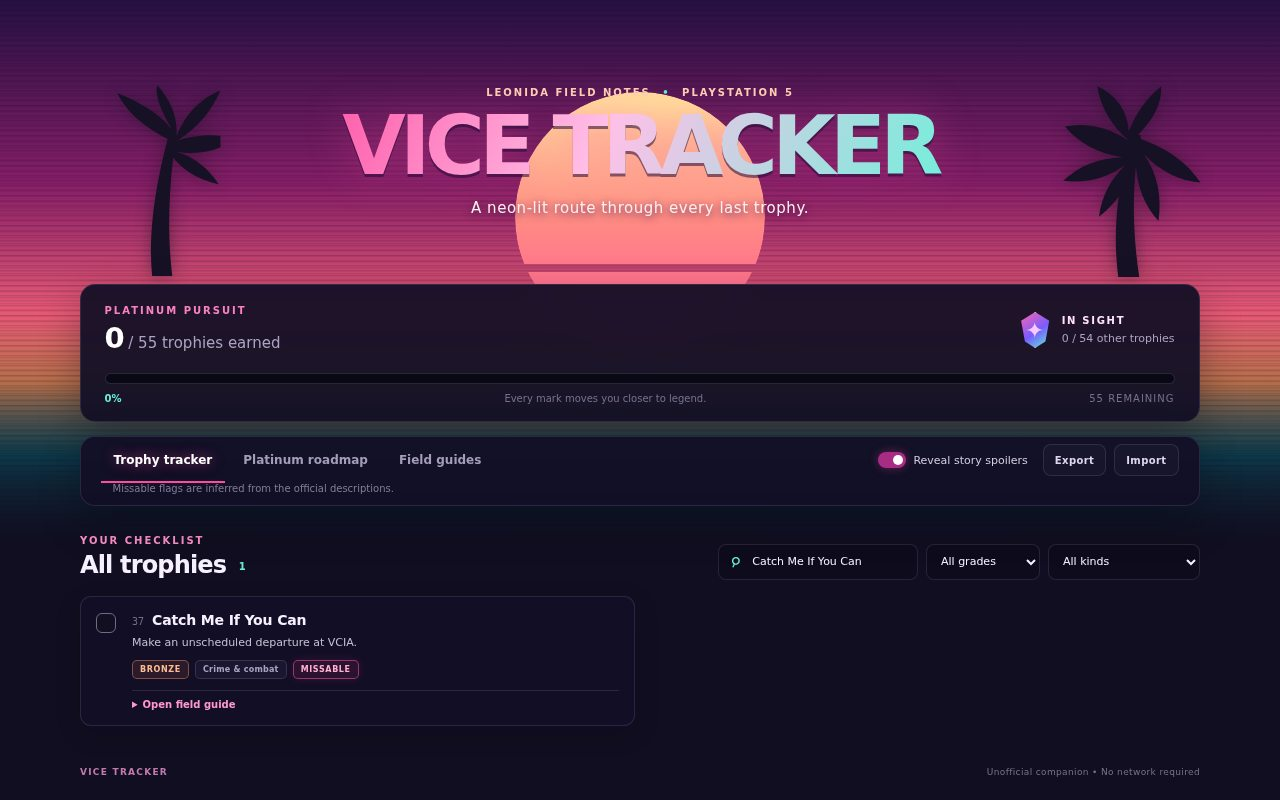
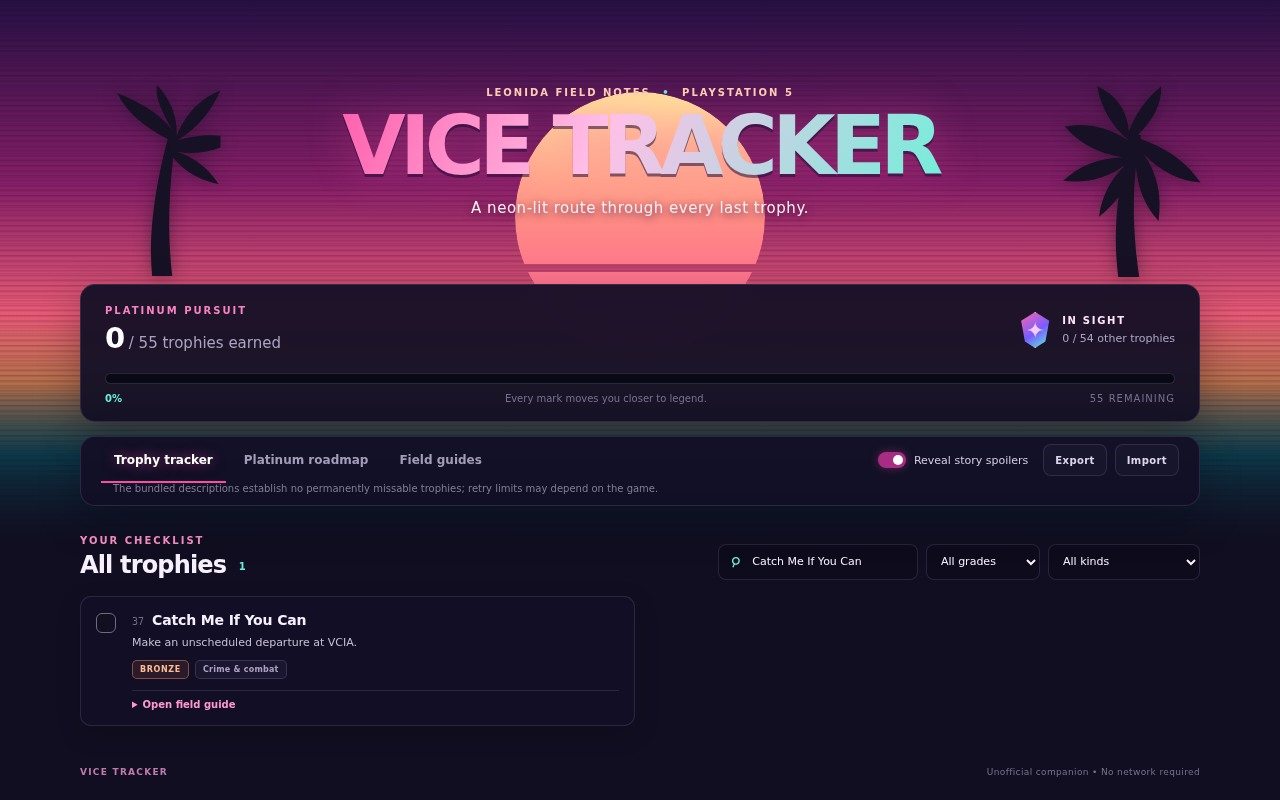
Recorded QA passes: spoiler reveal fixes, storage guards, reduced motion, phone overflow fix

diff --git a/app/app.js b/app/app.js
@@ -22,14 +22,14 @@ const kinds = [
   { key: 'lifestyle', label: 'Lifestyle & other' },
 ];
 const phases = [
-  { title: 'The story spine & watch-outs', subtitle: 'Start with the campaign; keep missables in view', note: 'Clear the listed campaign milestones in sequence and note the single-run conditions before moving on. Story details remain concealed until revealed or earned.' },
+  { title: 'The story spine & watch-outs', subtitle: 'Start with the campaign; mind the stated conditions', note: 'Clear the listed campaign milestones in sequence. The bundled descriptions do not establish a permanently missable trophy; verify retry limits in-game. Story details remain concealed until revealed or earned.' },
   { title: 'People, pastimes & skill', subtitle: 'Take the side roads', note: 'Work through the listed character strands and activity requirements; the trophy list does not state unlock timing.' },
   { title: 'Leonida, collected', subtitle: 'Sweep the wider map', note: 'Use each trophy’s own stated count as your checklist; no locations beyond those named in the list are assumed.' },
-  { title: 'Heat, hustle & oddities', subtitle: 'Finish the specific conditions', note: 'Handle crime, lifestyle and unusual one-off requirements, paying attention to the visible missable flags.' },
+  { title: 'Heat, hustle & oddities', subtitle: 'Finish the specific conditions', note: 'Handle crime, lifestyle and unusual requirements; follow any sequence or single-use condition exactly as written.' },
   { title: 'The final ledger', subtitle: 'Close the completion check', note: 'Reach the stated 100% completion milestone, complete the final mission, then claim the platinum for the other 54 trophies.' },
 ];
 const guideNotes = {
-  1: 'Keep this as the final stamp on the checklist: its guide line makes the other 54 trophies the full requirement.',
+  1: 'Claim this last: the requirement is all 54 other trophies, not a separate challenge or collectible.',
   2: 'The opening milestone is specific: complete Gone Fishing, the first mission named in the requirement.',
   3: 'Use Chapter 1 as the target; this trophy asks for the chapter to be complete.',
   4: 'The checklist names Chapter 2. Finish that chapter to clear this campaign milestone.',
@@ -48,7 +48,7 @@ const guideNotes = {
   17: 'The requirement is gold in every Shooting Range challenge; the guide line specifies all 42.',
   18: 'Win a Top Fun Drone Race at every location; the guide line calls out 14 locations.',
   19: 'The target is 20 different race wins, so track distinct races rather than repeating one.',
-  20: 'Beat Cal in a fishing challenge; the list does not add another condition.',
+  20: 'This is Cal-specific: complete one of his fishing challenges; general fishing alone is not the stated target.',
   21: 'Finish an arcade game. One completed game is the stated target.',
   22: 'Complete Andy’s final mission to finish this character-specific milestone.',
   23: 'Kenton’s final mission is the requirement; finish it for this trophy.',
@@ -65,7 +65,7 @@ const guideNotes = {
   34: 'Keep the three-shop sequence together: rob them back-to-back with your partner and do not lose the Wanted Level.',
   35: 'Discover vehicles until the total reaches 100.',
   36: 'During one use of Combat Focus, take down five enemies; the single-use condition is essential.',
-  37: 'The named event is an unscheduled departure at VCIA; the trophy text gives no further steps.',
+  37: 'The requirement is an unscheduled departure at VCIA. Neither bundled line names a vehicle or route, so avoid assuming a particular method.',
   38: 'The description identifies Rhinos as the subject. Its guide clarifies that these are tanks.',
   39: 'Rob a jewelry store without being detected. Avoid detection for the full stated condition.',
   40: 'Rob five Bank Vaults and escape; keep the total to the five-vault target.',
@@ -73,12 +73,12 @@ const guideNotes = {
   42: 'Explore all of Leonida; the guide line gives the target as 52 areas.',
   43: 'Rob an Illegal Operation belonging to each gang. The guide line gives nine gangs total.',
   44: 'Enjoy a cocktail with a view on Ocean Beach; both details come directly from the requirement.',
-  45: 'Smash your way out of a vehicle showroom in the classic style named by the trophy.',
+  45: 'The required scene is a smash-out from a vehicle showroom. The bundled text does not define the exact “classic style,” so it is safer not to prescribe a specific vehicle or exit.',
   46: 'Follow through at the Kolt & Associates’ bowling alley; the guide identifies it as playing bowling there.',
-  47: 'The stated clue is a partnership with mass appeal. The bundled guide does not specify a more exact action.',
-  48: 'The requirement points to choices. The bundled guide says PlayStation tracks a count to 500.',
-  49: 'The clue is success on a second try. Keep that exact retry condition in mind.',
-  50: 'Witness something strange; the description frames the moment as an unexpected surprise.',
+  47: 'The bundled clue points to a partnership with mass appeal, but names no action. Treat that clue as the available guidance rather than guessing at a specific event.',
+  48: 'The requirement is choice-based. The bundled note says PlayStation tracks progress to 500, but does not define which choices count.',
+  49: 'The hint makes the second attempt the important one: aim for success on try two. Neither bundled line identifies the activity.',
+  50: 'The description is a reaction to an unexplained event. Look for an unexpected encounter; the bundled text names no location or trigger.',
   51: 'Use a melee drive-by to bowl someone over; both the move and result are in the requirement.',
   52: 'Earn $250,000 by laundering Marked Bills through your contacts; track the stated amount.',
   53: 'Spend $100,000 across all shops. The total is cumulative across the shop category.',
@@ -99,22 +99,10 @@ function kindFor(trophy) {
 
 function phaseFor(trophy) {
   if (trophy.id === 1 || trophy.id === 7 || trophy.id === 14) return 4;
-  if (trophy.missableWindow) return 0;
   if (trophy.kind === 'story' && trophy.id < 22) return 0;
   if (trophy.kind === 'story' || trophy.kind === 'activities' || trophy.kind === 'challenge') return 1;
   if (trophy.kind === 'collectibles' || trophy.kind === 'exploration') return 2;
   return 3;
-}
-
-function missableWindow(trophy) {
-  switch (trophy.id) {
-    case 34: return 'The run depends on robbing 3 shops back-to-back without losing your Wanted Level.';
-    case 36: return 'The requirement is five takedowns in a single use of Combat Focus.';
-    case 37: return 'The trophy calls for an unscheduled departure at VCIA.';
-    case 39: return 'The robbery must be completed without being detected.';
-    case 49: return 'Its description calls for success on the second try.';
-    default: return '';
-  }
 }
 
 function makeElement(tag, className = '', text) {
@@ -140,6 +128,22 @@ function saveProgress() {
   }
 }
 
+function readStorage(key) {
+  try {
+    return localStorage.getItem(key);
+  } catch {
+    return null;
+  }
+}
+
+function savePreference(key, value) {
+  try {
+    localStorage.setItem(key, value);
+  } catch {
+    message('This browser could not save that setting.', true);
+  }
+}
+
 function isHidden(trophy) {
   return trophy.kind === 'story' && !showSpoilers && !earned.has(trophy.id);
 }
@@ -148,18 +152,9 @@ function badge(grade) {
   return makeElement('span', `grade-badge grade-${grade}`, grade);
 }
 
-function appendMissable(parent, trophy) {
-  if (trophy.missableWindow) parent.append(makeElement('span', 'missable-badge', 'Missable'));
-}
-
 function appendGuide(parent, trophy) {
   const copy = makeElement('p', 'field-guide-copy', guideNotes[trophy.id] || trophy.guide);
   parent.append(copy);
-  if (trophy.missableWindow) {
-    const when = makeElement('p', 'missable-window');
-    when.append(makeElement('strong', '', 'When it can be missed: '), document.createTextNode(trophy.missableWindow));
-    parent.append(when);
-  }
   parent.append(makeElement('p', 'guide-citation', SOURCE_LINE));
 }
 
@@ -168,12 +163,14 @@ function makeEarnControl(trophy, hidden = false, compact = false) {
   const checkbox = document.createElement('input');
   checkbox.type = 'checkbox';
   checkbox.checked = earned.has(trophy.id);
+  checkbox.dataset.trophyId = String(trophy.id);
   checkbox.setAttribute('aria-label', hidden ? `Mark concealed story trophy ${trophy.id} as earned` : `Mark ${trophy.name} as earned`);
   checkbox.addEventListener('change', () => {
     if (checkbox.checked) earned.add(trophy.id);
     else earned.delete(trophy.id);
     saveProgress();
     render();
+    document.querySelector(`.view-section:not([hidden]) [data-trophy-id="${trophy.id}"]`)?.focus();
   });
   label.append(checkbox);
   return label;
@@ -190,7 +187,6 @@ function makeTrophyCard(trophy) {
     hidden ? 'Reveal story spoilers or earn this trophy to see its requirement.' : trophy.description);
   const tags = makeElement('div', 'trophy-tags');
   tags.append(badge(trophy.grade), makeElement('span', 'kind-tag', kinds.find((kind) => kind.key === trophy.kind).label));
-  appendMissable(tags, trophy);
   main.append(title, description, tags);
   article.append(makeEarnControl(trophy, hidden), main);
   if (hidden) main.append(makeElement('span', 'hidden-hint', 'Guide hidden'));
@@ -241,19 +237,20 @@ function makeRoadmapCard(trophy) {
   check.type = 'checkbox';
   check.className = 'roadmap-check';
   check.checked = earned.has(trophy.id);
+  check.dataset.trophyId = String(trophy.id);
   check.setAttribute('aria-label', hidden ? `Mark concealed story trophy ${trophy.id} as earned` : `Mark ${trophy.name} as earned`);
   check.addEventListener('change', () => {
     if (check.checked) earned.add(trophy.id);
     else earned.delete(trophy.id);
     saveProgress();
     render();
+    document.querySelector(`.view-section:not([hidden]) [data-trophy-id="${trophy.id}"]`)?.focus();
   });
   const info = makeElement('div', 'roadmap-info');
   info.append(makeElement('h4', hidden ? 'spoiler-text' : '', hidden ? 'Story trophy hidden' : trophy.name));
   info.append(makeElement('p', hidden ? 'spoiler-text' : '', hidden ? 'Reveal spoilers to view this requirement.' : trophy.description));
   const meta = makeElement('div', 'roadmap-meta');
   meta.append(badge(trophy.grade), makeElement('span', 'kind-tag', kinds.find((kind) => kind.key === trophy.kind).label));
-  appendMissable(meta, trophy);
   info.append(meta);
   article.append(check, info);
   return article;
@@ -285,7 +282,6 @@ function renderGuides() {
     const heading = makeElement('div', 'field-guide-heading');
     heading.append(makeElement('span', 'trophy-number', String(trophy.id).padStart(2, '0')));
     heading.append(makeElement('h3', hidden ? 'spoiler-text' : '', hidden ? 'Story trophy hidden' : trophy.name), badge(trophy.grade));
-    appendMissable(heading, trophy);
     item.append(heading);
     if (hidden) item.append(makeElement('p', 'hidden-hint', 'Requirement and guide hidden while story spoilers are off.'));
     else {
@@ -313,6 +309,7 @@ function setView(view) {
     const active = button.dataset.view === valid;
     button.classList.toggle('active', active);
     button.setAttribute('aria-selected', String(active));
+    button.tabIndex = active ? 0 : -1;
   }
   for (const section of document.querySelectorAll('.view-section')) section.hidden = section.id !== `${valid}-view`;
 }
@@ -331,12 +328,12 @@ const response = await fetch('data/trophies.json');
 if (!response.ok) throw new Error(`Trophy data could not be loaded (${response.status}).`);
 const data = await response.json();
 if (!Array.isArray(data.trophies) || data.trophies.length !== 55) throw new Error('The bundled trophy list must contain 55 trophies.');
-const trophies = data.trophies.map((trophy) => ({ ...trophy, kind: kindFor(trophy), missableWindow: missableWindow(trophy) }));
+const trophies = data.trophies.map((trophy) => ({ ...trophy, kind: kindFor(trophy) }));
 const initialQuery = new URLSearchParams(location.search);
 let earned = new Set();
-let showSpoilers = localStorage.getItem(SPOILER_KEY) === 'true' || initialQuery.get('spoilers') === '1';
+let showSpoilers = readStorage(SPOILER_KEY) === 'true' || initialQuery.get('spoilers') === '1';
 try {
-  earned = parseEarned(JSON.parse(localStorage.getItem(STORAGE_KEY) ?? '[]'));
+  earned = parseEarned(JSON.parse(readStorage(STORAGE_KEY) ?? '[]'));
 } catch {
   earned = new Set();
 }
@@ -351,9 +348,22 @@ elements.search.value = initialQuery.get('search') ?? '';
 elements.grade.value = initialQuery.get('grade') ?? 'all';
 elements.kind.value = initialQuery.get('kind') ?? 'all';
 for (const button of document.querySelectorAll('.view-tab')) button.addEventListener('click', () => setView(button.dataset.view));
+document.querySelector('[role="tablist"]').addEventListener('keydown', (event) => {
+  const buttons = [...document.querySelectorAll('.view-tab')];
+  const current = buttons.indexOf(document.activeElement);
+  const nextIndex = event.key === 'ArrowRight' ? (current + 1) % buttons.length
+    : event.key === 'ArrowLeft' ? (current - 1 + buttons.length) % buttons.length
+      : event.key === 'Home' ? 0
+        : event.key === 'End' ? buttons.length - 1
+          : -1;
+  if (nextIndex < 0) return;
+  event.preventDefault();
+  setView(buttons[nextIndex].dataset.view);
+  buttons[nextIndex].focus();
+});
 elements.spoiler.addEventListener('change', () => {
   showSpoilers = elements.spoiler.checked;
-  localStorage.setItem(SPOILER_KEY, String(showSpoilers));
+  savePreference(SPOILER_KEY, String(showSpoilers));
   render();
 });
 elements.search.addEventListener('input', renderTracker);

diff --git a/app/style.css b/app/style.css
@@ -26,6 +26,10 @@ body {
 }
 button, input, select { font: inherit; }
 button, select, input[type="search"] { color: inherit; }
+button:focus-visible, input:focus-visible, select:focus-visible, summary:focus-visible {
+  outline: 2px solid var(--teal); outline-offset: 3px;
+}
+.import-button:focus-within { outline: 2px solid var(--teal); outline-offset: 3px; }
 .skyline { position: absolute; inset: 0 0 auto; height: 525px; overflow: hidden; pointer-events: none; z-index: -1; }
 .skyline::before {
   content: ""; position: absolute; inset: 0;
@@ -88,7 +92,10 @@ main { width: min(1120px, calc(100% - 48px)); margin: 0 auto; padding: 0 0 44px;
 .button { border-radius: 8px; cursor: pointer; font-size: 10px; font-weight: 800; letter-spacing: .04em; }
 .button-quiet { display: inline-flex; justify-content: center; align-items: center; min-height: 32px; padding: 0 11px; border: 1px solid var(--line); background: rgba(255,255,255,.025); color: #ddd6ed; }
 .button-quiet:hover { border-color: var(--teal); color: var(--teal); }
-.import-button input { display: none; }
+.import-button input {
+  position: absolute; width: 1px; height: 1px; padding: 0; margin: -1px;
+  overflow: hidden; clip: rect(0,0,0,0); white-space: nowrap; border: 0;
+}
 .missable-note { flex-basis: 100%; margin: 0; padding: 0 0 0 12px; color: #827c99; font-size: 10px; }
 .view-section { margin-top: 29px; }
 .section-heading { display: flex; justify-content: space-between; align-items: end; gap: 24px; margin-bottom: 16px; }
@@ -117,20 +124,18 @@ h2 { margin: 0; font-size: 24px; line-height: 1.2; letter-spacing: -.035em; }
 .trophy-main h3, .field-guide-heading h3 { margin: 0; font-size: 14px; font-weight: 750; letter-spacing: -.01em; }
 .trophy-description { margin: 7px 0 9px; color: #c4bfd2; font-size: 11px; line-height: 1.45; }
 .trophy-tags { display: flex; align-items: center; gap: 6px; flex-wrap: wrap; }
-.grade-badge, .kind-tag, .missable-badge { display: inline-flex; align-items: center; justify-content: center; min-height: 19px; padding: 2px 7px; border-radius: 5px; font-size: 8px; font-weight: 850; letter-spacing: .08em; text-transform: uppercase; }
+.grade-badge, .kind-tag { display: inline-flex; align-items: center; justify-content: center; min-height: 19px; padding: 2px 7px; border-radius: 5px; font-size: 8px; font-weight: 850; letter-spacing: .08em; text-transform: uppercase; }
 .grade-bronze { color: #ffbc92; border: 1px solid rgba(255, 159, 106, .42); background: rgba(255, 133, 87, .1); }
 .grade-silver { color: #d3d5ff; border: 1px solid rgba(180, 183, 255, .46); background: rgba(154, 151, 255, .1); }
 .grade-gold { color: #ffe299; border: 1px solid rgba(255, 210, 102, .48); background: rgba(255, 193, 72, .12); }
 .grade-platinum { color: #fff0ff; border: 1px solid rgba(249, 156, 255, .62); background: linear-gradient(100deg, rgba(242, 82, 176, .24), rgba(91, 236, 214, .18)); box-shadow: 0 0 10px rgba(228, 82, 194, .24); }
 .kind-tag { color: #aaa2c1; border: 1px solid rgba(172, 159, 203, .2); background: rgba(142, 128, 175, .08); font-weight: 700; letter-spacing: .03em; text-transform: none; }
-.missable-badge { color: #ffafd0; border: 1px solid rgba(255, 92, 161, .52); background: rgba(177, 42, 106, .16); box-shadow: 0 0 10px rgba(246, 64, 158, .14); }
 .spoiler-text { color: #9990ae !important; background: rgba(145, 130, 170, .16); border-radius: 3px; filter: blur(4px); user-select: none; }
 .hidden-hint { display: inline-block; margin-top: 8px; color: #928ba5; font-size: 10px; }
 .guide-details { margin-top: 11px; border-top: 1px solid var(--line); padding-top: 8px; }
 .guide-details summary { color: #ff97ce; font-size: 10px; font-weight: 750; cursor: pointer; }
 .guide-copy { margin: 8px 0 0; color: #d2ccdf; font-size: 11px; line-height: 1.6; }
 .guide-citation { margin: 8px 0 0; color: #77718a; font-size: 9px; }
-.missable-window { margin: 8px 0 0; padding-left: 8px; border-left: 2px solid var(--pink); color: #ffcadf; font-size: 10px; line-height: 1.45; }
 .empty-state { padding: 35px; text-align: center; color: var(--muted); border: 1px dashed var(--line); border-radius: 12px; }
 .roadmap-list { display: grid; gap: 13px; }
 .roadmap-phase { overflow: hidden; border: 1px solid var(--line); border-radius: 12px; background: var(--panel); }
@@ -154,7 +159,6 @@ h2 { margin: 0; font-size: 24px; line-height: 1.2; letter-spacing: -.035em; }
 .field-guide-heading h3 { flex: 1; min-width: 120px; }
 .field-guide-requirement { margin: 9px 0 6px; color: #aaa4bc; font-size: 10px; line-height: 1.5; }
 .field-guide-copy { margin: 0; color: #e1dceb; font-size: 11px; line-height: 1.55; }
-.field-guide-item .missable-window { margin-top: 11px; }
 .field-guide-detail { margin-top: 9px; border-top: 1px solid var(--line); padding-top: 8px; }
 .field-guide-detail summary { color: #ff97ce; font-size: 10px; font-weight: 750; cursor: pointer; }
 .status-message { position: fixed; right: 24px; bottom: 20px; z-index: 5; max-width: min(380px, calc(100vw - 32px)); padding: 12px 16px; border: 1px solid rgba(103,238,216,.45); border-radius: 9px; background: #19142c; color: #e9fff9; box-shadow: 0 8px 28px #080611; font-size: 12px; opacity: 0; transform: translateY(10px); pointer-events: none; transition: .2s; }
@@ -178,9 +182,7 @@ footer span:first-child { color: #c17bad; font-weight: 850; letter-spacing: .14e
 }
 @media (max-width: 560px) {
   .masthead { min-height: 225px; grid-template-columns: 46px 1fr 46px; }
-  .palm { width: 90px; opacity: .8; }
-  .palm-left { transform: translate(-30px,0) scale(.85); }
-  .palm-right { transform: translate(30px,0) scaleX(-1) scale(.85); }
+  .palm { display: none; }
   .eyebrow { font-size: 8px; }
   .intro { font-size: 12px; }
   .dashboard { padding: 16px; }
@@ -198,4 +200,11 @@ footer span:first-child { color: #c17bad; font-weight: 850; letter-spacing: .14e
   .trophy-grid, .guide-grid, .phase-trophies { grid-template-columns: 1fr; }
   .progress-bottom span:nth-child(2) { display: none; }
   footer { margin-top: -28px; }
+}
+@media (prefers-reduced-motion: reduce) {
+  *, *::before, *::after {
+    animation: none !important;
+    transition-duration: .01ms !important;
+    scroll-behavior: auto !important;
+  }
 }

diff --git a/app/index.html b/app/index.html
@@ -45,9 +45,9 @@
       <div class="toolbar-actions">
         <label class="spoiler-control"><input id="spoiler-toggle" type="checkbox"><span class="switch"></span><span>Reveal story spoilers</span></label>
         <button id="export-button" class="button button-quiet" type="button">Export</button>
-        <label class="button button-quiet import-button" for="import-file">Import<input id="import-file" type="file" accept="application/json"></label>
+        <label class="button button-quiet import-button" for="import-file">Import<input id="import-file" type="file" accept="application/json" aria-label="Import progress JSON"></label>
       </div>
-      <p class="missable-note">Missable flags are inferred from the official descriptions.</p>
+      <p class="missable-note">The bundled descriptions establish no permanently missable trophies; retry limits may depend on the game.</p>
     </section>
 
     <section id="tracker-view" class="view-section">
